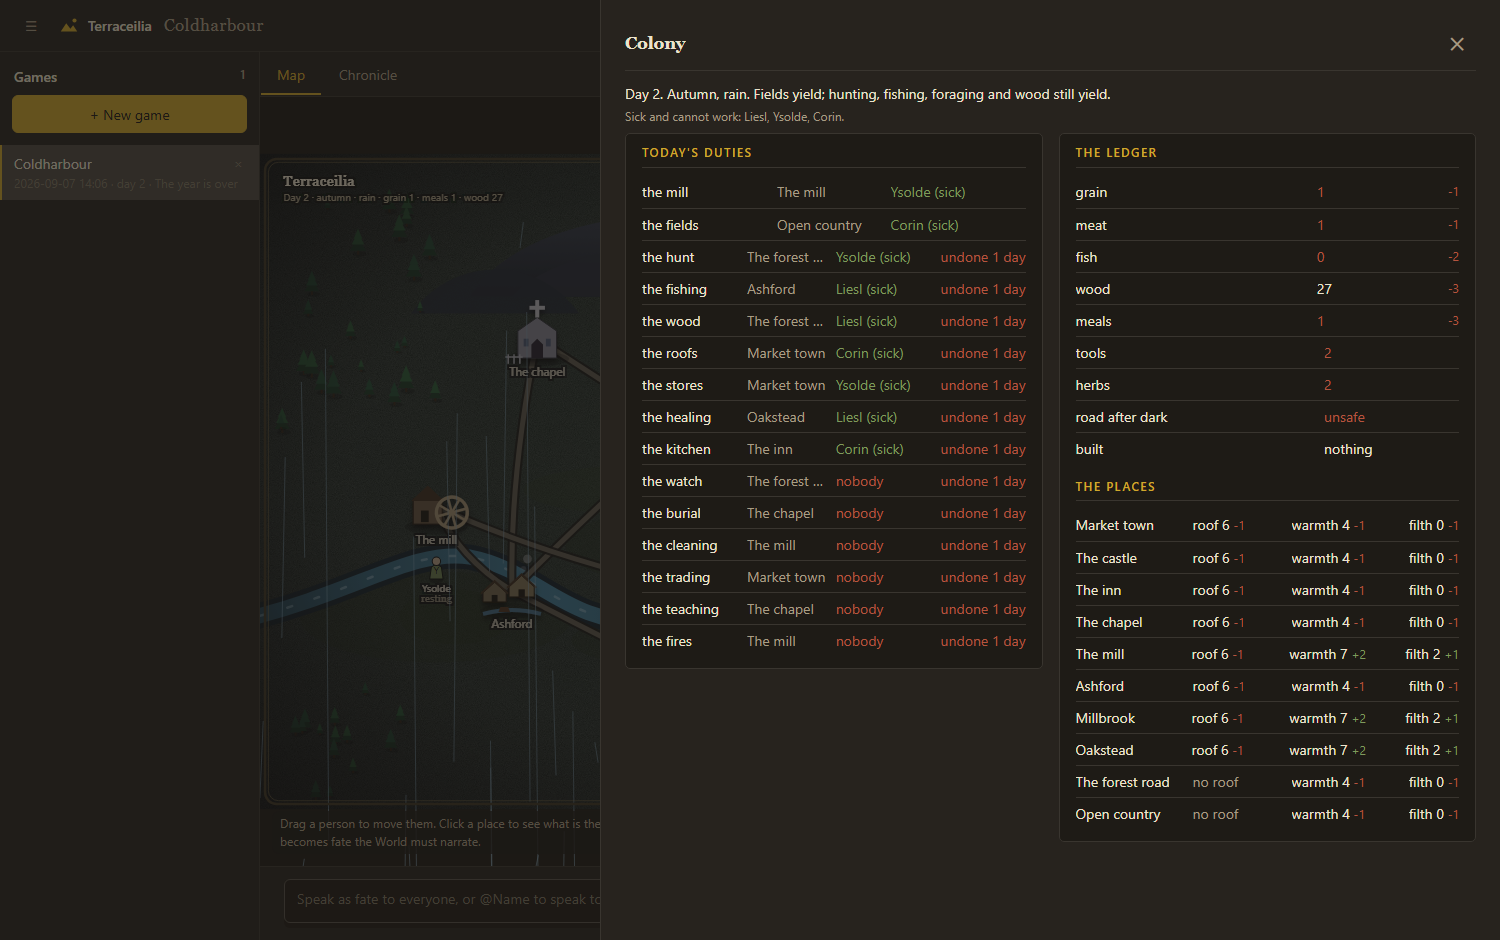
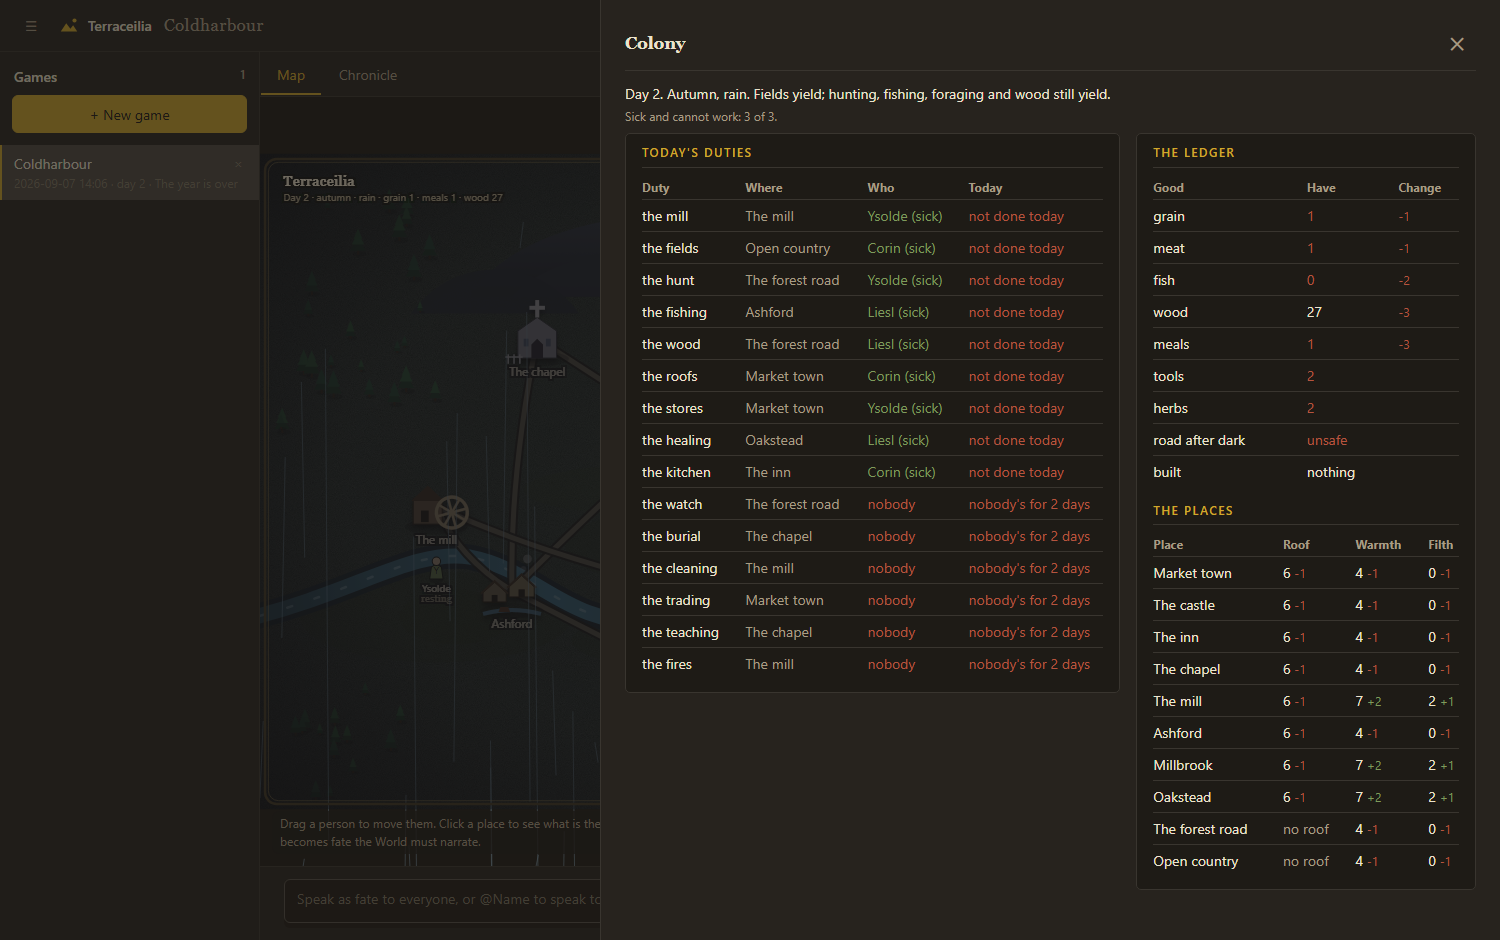
Colony sheet readability: header rows, columns that fit, plain status words, counts with names on hover
The three colony tables are tables now, each with a header row: Duty, Where, Who, Today; Good, Have, Change; Place,
Roof, Warmth, Filth with today's change beside each number. Columns are as wide as their longest value and nothing is
cut short; the cells wrap only on the phone, where the sheet is narrower than the table. Today reads done, not done
today, nobody's for N days, dumped on Sela today, or nothing to do; Who carries the full name with (dumped) after it.
Hungry, freezing and sick show as a count of the living with the names on hover. The header sentence stays on one line
and wraps on the phone.

Claude-Session: https://claude.ai/code/session_011m975X5bZNZjxXmbnbh6Db

diff --git a/frontend/app.js b/frontend/app.js
@@ -114,18 +114,23 @@ function refreshSheet(name,s){if(!s)return;
 let colHtml='';
 function renderColony(s){const R=s.day_report||{};const L=s.ledger||{};const ch=R.change||{};const defs=s.duty_defs||{};const roster=(s.roster||{}).duties||{};const st=s.duty_state||{};
  if(!s.created){$('colHead').innerHTML='<div class="empty">The colony appears here once the World has rolled it.</div>';$('colDuties').innerHTML='';$('colLedger').innerHTML='';$('colPlaces').innerHTML='';$('colMorning').innerHTML='';colHtml='';return}
- const sick=(s.characters||[]).filter(c=>c.alive&&!c.gone&&c.sick).map(c=>c.name);const bodies=Object.entries(s.bodies||{});
+ const living=(s.characters||[]).filter(c=>c.alive&&!c.gone);const sick=living.filter(c=>c.sick).map(c=>c.name);const bodies=Object.entries(s.bodies||{});
+ const count=(label,names)=>names.length?`<span title="${esc(names.join(', '))}">${label}: ${names.length} of ${living.length}.</span> `:'';
  const head=`<p class="colsent">${esc(s.sentence||R.sentence||`Day ${s.day}.`)}</p>
-  <p class="small">${sick.length?`Sick and cannot work: ${sick.map(esc).join(', ')}. `:''}${bodies.length?`Unburied: ${bodies.map(([n,p])=>esc(n)+' at '+esc(p)).join(', ')}. `:''}${Object.keys(s.fires||{}).length?`Burning: ${Object.keys(s.fires).map(esc).join(', ')}. `:''}${(R.hungry||[]).length?`Hungry: ${R.hungry.map(esc).join(', ')}. `:''}${(R.freezing||[]).length?`Freezing: ${R.freezing.map(esc).join(', ')}. `:''}</p>`;
- const duties=Object.entries(defs).map(([k,d])=>{const r=roster[k]||{};const x=st[k]||{};const hs=(s.characters||[]).filter(c=>c.alive&&!c.gone&&(c.duties||[]).includes(k)).map(c=>c.name);
-  const un=!hs.length;const done=x.done_day===s.day;const sickSet=new Set(sick);const who=(hs.length?hs.map(h=>esc(h)+(sickSet.has(h)?' (sick)':'')).join(', '):'')+(r.dumped_on&&!hs.includes(r.dumped_on)?`${hs.length?', ':''}<span class="poor">dumped on ${esc(r.dumped_on)}</span>`:'')||'nobody';
-  return `<div class="crow colduty ${un?'un':''} ${done?'done':''}"><span class="cdn">${esc(d.label)}</span><span class="cdp">${esc(r.place||'')}</span><span class="cdw ${un?'poor':''}">${who}</span><span class="cds ${x.nothing_day===s.day?'quiet':''}">${x.nothing_day===s.day?'nothing to do':done?'':x.undone_days?`undone ${x.undone_days} day${x.undone_days>1?'s':''}`:''}</span></div>`}).join('');
- const chg=v=>v?`<span class="chg ${v>0?'up':'down'}">${v>0?'+':''}${v}</span>`:'<span></span>';
- const ledger=STORES.map(k=>`<div class="crow"><span class="cdn">${k}</span><span class="cdp"></span><span class="cdw ${(L[k]||0)<=(k==='tools'||k==='herbs'?2:4)?'poor':''}">${L[k]??0}</span>${chg(ch[k])}</div>`).join('')
-  +`<div class="crow"><span class="cdn">road after dark</span><span class="cdp"></span><span class="cdw ${L.road_safe?'good':'poor'}">${L.road_safe?'safe':'unsafe'}</span><span></span></div><div class="crow"><span class="cdn">built</span><span class="cdp"></span><span class="cdw">${esc((L.built||[]).join(', ')||'nothing')}</span><span></span></div>`;
- const pc=(R.places||{});const places=Object.entries(s.upkeep||{}).map(([p,u])=>{const d=pc[p]||{};const cell=(k,v,bad)=>`<span class="cdw ${bad?'poor':''}">${k} ${v}${d[k]?` <span class="chg ${d[k]>0?'up':'down'}">${d[k]>0?'+':''}${d[k]}</span>`:''}</span>`;
+  <p class="small">${count('Sick and cannot work',sick)}${bodies.length?`Unburied: ${bodies.map(([n,p])=>esc(n)+' at '+esc(p)).join(', ')}. `:''}${Object.keys(s.fires||{}).length?`Burning: ${Object.keys(s.fires).map(esc).join(', ')}. `:''}${count('Hungry',R.hungry||[])}${count('Freezing',R.freezing||[])}</p>`;
+ const thead=cols=>`<thead><tr>${cols.map(c=>`<th>${c}</th>`).join('')}</tr></thead>`;
+ const duties=`<table class="ctab">${thead(['Duty','Where','Who','Today'])}<tbody>`+Object.entries(defs).map(([k,d])=>{const r=roster[k]||{};const x=st[k]||{};const hs=living.filter(c=>(c.duties||[]).includes(k)).map(c=>c.name);
+  const un=!hs.length;const done=x.done_day===s.day;const sickSet=new Set(sick);const dumped=r.dumped_on&&!hs.includes(r.dumped_on)?r.dumped_on:'';
+  const who=hs.map(h=>esc(h)+(sickSet.has(h)?' (sick)':'')).concat(dumped?[esc(dumped)+' (dumped)']:[]).join(', ')||'nobody';
+  const since=x.unclaimed_day?Math.max(1,s.day-x.unclaimed_day+1):1;
+  const today=x.nothing_day===s.day?['nothing to do','quiet']:done?['done','good']:dumped?[`dumped on ${esc(dumped)} today`,'poor']:un?[`nobody's for ${since} day${since>1?'s':''}`,'poor']:['not done today','poor'];
+  return `<tr class="colduty ${un?'un':''} ${done?'done':''}"><td class="cdn">${esc(d.label)}</td><td class="cdp">${esc(r.place||'')}</td><td class="cdw ${un&&!dumped?'poor':''}">${who}</td><td class="cds ${today[1]}">${today[0]}</td></tr>`}).join('')+'</tbody></table>';
+ const chg=v=>v?`<span class="chg ${v>0?'up':'down'}">${v>0?'+':''}${v}</span>`:'';
+ const ledger=`<table class="ctab">${thead(['Good','Have','Change'])}<tbody>`+STORES.map(k=>`<tr><td class="cdn">${k}</td><td class="cdw ${(L[k]||0)<=(k==='tools'||k==='herbs'?2:4)?'poor':''}">${L[k]??0}</td><td>${chg(ch[k])}</td></tr>`).join('')
+  +`<tr><td class="cdn">road after dark</td><td class="cdw ${L.road_safe?'good':'poor'}">${L.road_safe?'safe':'unsafe'}</td><td></td></tr><tr><td class="cdn">built</td><td class="cdw">${esc((L.built||[]).join(', ')||'nothing')}</td><td></td></tr></tbody></table>`;
+ const pc=(R.places||{});const places=`<table class="ctab">${thead(['Place','Roof','Warmth','Filth'])}<tbody>`+Object.entries(s.upkeep||{}).map(([p,u])=>{const d=pc[p]||{};const cell=(k,v,bad)=>`<td class="cdw ${bad?'poor':''}">${v} ${chg(d[k])}</td>`;
   const roofed=!['forest','fields','water','road','cave','ruin'].includes(((s.map||{})[p]||{}).kind);
-  return `<div class="crow colplace"><span class="cdn">${esc(p)}</span>${roofed?cell('roof',u.roof,u.roof<4):'<span class="cdp">no roof</span>'}${cell('warmth',u.warmth,u.warmth<=2)}${cell('filth',u.filth,u.filth>=6)}</div>`}).join('');
+  return `<tr class="colplace"><td class="cdn">${esc(p)}</td>${roofed?cell('roof',u.roof,u.roof<4):'<td class="cdp">no roof</td>'}${cell('warmth',u.warmth,u.warmth<=2)}${cell('filth',u.filth,u.filth>=6)}</tr>`}).join('')+'</tbody></table>';
  const m=(s.transcript||[]).slice().reverse().find(e=>e.kind==='morning'&&e.day===s.day);
  const morning=m?`<div class="card2"><div class="ch">This morning</div><div class="colmorn">${rich(m.text)}</div></div>`:'';
  const html=head+'|'+duties+'|'+ledger+'|'+places+'|'+morning;if(html===colHtml)return;colHtml=html;

diff --git a/frontend/style.css b/frontend/style.css
@@ -176,7 +176,7 @@ table.st{border-collapse:collapse;font-size:var(--fs-b);margin-top:var(--u)}tabl
 .card2{background:var(--sunk);border:1px solid var(--line);border-radius:5px;padding:calc(var(--u) * 1.5) calc(var(--u) * 2);margin-bottom:var(--u)}.card2 p{margin:0 0 var(--u)}.card2 p:last-child{margin-bottom:0}
 .small{font-size:var(--fs-s);color:var(--muted);line-height:1.45;margin:0 0 var(--u)}
 .ch{font:400 var(--fs-s)/1 Inter,system-ui,sans-serif;letter-spacing:1.4px;text-transform:uppercase;color:var(--accent);padding-bottom:var(--u);margin-bottom:var(--u);border-bottom:1px solid var(--line)}
-.hgrid{display:grid;grid-template-columns:1fr 1fr;gap:calc(var(--u) * 2);align-items:start}
+.hgrid{display:flex;flex-wrap:wrap;gap:calc(var(--u) * 2);align-items:flex-start}.hgrid .card2{flex:1 1 auto;min-width:0}
 .foot{font-size:var(--fs-s);color:var(--faint);line-height:1.5;margin-top:var(--u)}
 .srow{display:flex;align-items:center;justify-content:space-between;gap:var(--u);padding:calc(var(--u) / 2) 0;border-top:1px solid var(--line)}
 .srow:first-child{border-top:0}.srow .lbl{color:var(--muted);white-space:nowrap}
@@ -225,9 +225,10 @@ table.st{border-collapse:collapse;font-size:var(--fs-b);margin-top:var(--u)}tabl
 .logrow.system .lm,.logrow.system{color:var(--muted)}
 .colday{display:flex;gap:calc(var(--u) * 1.5);align-items:baseline;flex-wrap:wrap;font-size:var(--fs-b)}.colday b{font:400 var(--fs-h) Georgia,serif;color:var(--ink)}.colseason{color:var(--accent)}.colweather{color:var(--muted)}
 /* one row shape for duties, the ledger and the places: four columns, one line, one fixed height */
-.crow{display:grid;grid-template-columns:1.2fr 1fr 1.2fr auto;gap:var(--u);align-items:center;height:calc(var(--u) * 4);box-sizing:border-box;border-top:1px solid var(--line);font-size:var(--fs-b)}
-.crow:first-child{border-top:0}.crow>span{white-space:nowrap;overflow:hidden;text-overflow:ellipsis;min-width:0}
-.crow .cdn{color:var(--ink)}.crow .cdp{color:var(--muted)}.crow .cds{color:var(--rust);text-align:right}.crow .cds.quiet{color:var(--muted)}
+/* the colony tables: a header row, columns as wide as their longest value, one line per row of one height; nothing is cut short */
+.ctab{border-collapse:collapse;font-size:var(--fs-b);width:100%}.ctab th{color:var(--muted);font-size:var(--fs-s);text-align:left;padding:0 calc(var(--u) * 2) 0 0;height:calc(var(--u) * 3);white-space:nowrap}
+.ctab td{height:calc(var(--u) * 4);padding:0 calc(var(--u) * 2) 0 0;border-top:1px solid var(--line);white-space:nowrap;vertical-align:middle}.ctab th:last-child,.ctab td:last-child{padding-right:0}
+.ctab .cdn{color:var(--ink)}.ctab .cdp{color:var(--muted)}.ctab .cds.poor{color:var(--rust)}.ctab .cds.good{color:var(--moss)}.ctab .cds.quiet{color:var(--muted)}
 .colduty .cdw{color:var(--moss)}.colduty .cdw.poor,.colduty.un .cdw,.colduty .cdw .poor{color:var(--rust);font-weight:400}
 .chg{font-size:var(--fs-s);color:var(--faint)}.chg.up{color:var(--moss)}.chg.down{color:var(--rust)}
 .colmorn{font-size:var(--fs-b);line-height:1.55;color:var(--ink)}.colmorn p{margin:0 0 .5em}
@@ -266,12 +267,12 @@ table.st{border-collapse:collapse;font-size:var(--fs-b);margin-top:var(--u)}tabl
 .seg button.on{background:color-mix(in srgb,var(--ink) 45%,var(--bg));border-color:transparent}
 .tie{cursor:pointer}.tie.sel{outline:1px solid var(--accent);outline-offset:calc(var(--u) / 4);border-radius:3px}
 .tie .seg button.on{background:var(--moss);border-color:var(--moss)}.tie .seg button.on.neg{background:var(--rust);border-color:var(--rust)}
-.colsent{font-size:var(--fs-b);color:var(--ink);margin:0 0 calc(var(--u) / 2)}
+.colsent{font-size:var(--fs-b);color:var(--ink);margin:0 0 calc(var(--u) / 2);white-space:nowrap}
 .sit{display:grid;grid-template-columns:auto 1fr;grid-template-areas:"n text" "n meta" "n act";gap:calc(var(--u) / 4) var(--u);padding:var(--u) 0;border-top:1px solid var(--line)}
 .sit:first-of-type{border-top:0}.sit .sitn{grid-area:n;color:var(--muted)}.sit .sitt{grid-area:text;color:var(--ink)}.sit .small{grid-area:meta;margin:0}.sit .row{grid-area:act}
 .sit.resolved .sitt{color:var(--muted)}.sit .rnote{height:30px;font-size:var(--fs-b)}
 .srow.area .val.col span{text-align:right}
-@media (max-width:820px){.srow{flex-wrap:wrap}.srow .val{white-space:normal;text-align:left;justify-content:flex-start}.form2{grid-template-columns:1fr}.needbars{grid-template-columns:1fr 1fr}.cond{grid-template-columns:1fr}.srow.area{flex-direction:column;align-items:flex-start}.srow.area .val.col{align-items:flex-start}.srow.area .val.col span{text-align:left}}
+@media (max-width:820px){.colsent{white-space:normal}.ctab td,.ctab th{white-space:normal;height:auto;padding-top:calc(var(--u) / 2);padding-bottom:calc(var(--u) / 2)}.srow{flex-wrap:wrap}.srow .val{white-space:normal;text-align:left;justify-content:flex-start}.form2{grid-template-columns:1fr}.needbars{grid-template-columns:1fr 1fr}.cond{grid-template-columns:1fr}.srow.area{flex-direction:column;align-items:flex-start}.srow.area .val.col{align-items:flex-start}.srow.area .val.col span{text-align:left}}
 
 /* ---------- one weight for body text: bold only for names in the strip and section headings; italic only for an earned title ---------- */
 b,strong{font-weight:400}.chip .cn,.ch,h1,.sheetwrap .panel h1,.logday,.place,.railhdr,header .brand{font-weight:600}

diff --git a/tests/test_ui_pass.py b/tests/test_ui_pass.py
@@ -107,16 +107,21 @@ class Sheets(unittest.TestCase):
         self.assertIn("white-space:nowrap", CSS[CSS.index("#peoHead{"):CSS.index("}", CSS.index("#peoHead{"))])
         bio = JS[JS.index("function paneBio"):JS.index("// ---- Body")]; self.assertIn('id="b_prov"', bio); self.assertIn('id="b_model"', bio)
 
-    def test_colony_rows_are_one_line_with_four_columns(self) -> None:
+    def test_colony_tables_have_headers_plain_status_and_no_truncation(self) -> None:
         col = JS[JS.index("function renderColony"):JS.index("document.querySelectorAll('.sheetclose')")]
-        self.assertIn('class="crow colduty', col); self.assertIn('class="crow colplace', col); self.assertEqual(col.count('<div class="crow">'), 3, "the ledger rows share the row shape")
-        duty = col[col.index('class="crow colduty'):col.index("</div>`", col.index('class="crow colduty'))]
-        self.assertEqual([m for m in re.findall(r'class="(cdn|cdp|cdw|cds)', duty)], ["cdn", "cdp", "cdw", "cds"], "duty name, place, holder, status")
-        self.assertIn("done?'':x.undone_days?`undone ${x.undone_days} day", duty, "status is blank when done"); self.assertIn("'nothing to do'", duty, "a duty with nothing to do today says so")
-        row = CSS[CSS.index(".crow{"):CSS.index("}", CSS.index(".crow{"))]
-        self.assertIn("display:grid", row); self.assertIn("height:calc(var(--u) * 4)", row); self.assertIn("grid-template-columns:1.2fr 1fr 1.2fr auto", row)
-        self.assertIn(".crow>span{white-space:nowrap;overflow:hidden;text-overflow:ellipsis", CSS); self.assertIn(".crow .cdp{color:var(--muted)}", CSS); self.assertIn(".crow .cds{color:var(--rust)", CSS)
-        self.assertNotIn(".colplace{", CSS); self.assertNotIn(".colduty{", CSS)
+        self.assertIn("thead(['Duty','Where','Who','Today'])", col); self.assertIn("thead(['Good','Have','Change'])", col); self.assertIn("thead(['Place','Roof','Warmth','Filth'])", col)
+        self.assertEqual(col.count('<table class="ctab">'), 3)
+        for word in ("'done','good'", "['not done today','poor']", "`nobody's for ${since} day${since>1?'s':''}`,'poor'", "`dumped on ${esc(dumped)} today`,'poor'", "'nothing to do','quiet'"): self.assertIn(word, col)
+        self.assertIn("' (dumped)'", col, "the Who column carries the full name and (dumped) after it"); self.assertNotIn("undone ${", col); self.assertNotIn("dumped on ${esc(r.dumped_on)}</span>", col)
+        self.assertIn("${label}: ${names.length} of ${living.length}.", col, "hungry, freezing and sick are counts"); self.assertIn("title=\"${esc(names.join(', '))}\"", col, "with the names on hover")
+        self.assertNotIn("Hungry: ${R.hungry.map(esc).join(', ')}", col)
+        self.assertIn("${v} ${chg(d[k])}", col, "each place number carries today's change beside it")
+        tab = CSS[CSS.index(".ctab{"):CSS.index("@media (max-width:820px)", CSS.index(".ctab{"))] if CSS.index("@media (max-width:820px)", CSS.index(".ctab{")) > 0 else CSS[CSS.index(".ctab{"):]
+        self.assertNotIn("ellipsis", tab); self.assertNotIn("overflow:hidden", tab); self.assertIn("white-space:nowrap", tab); self.assertIn("height:calc(var(--u) * 4)", tab)
+        self.assertNotIn(".crow", CSS)
+        self.assertIn(".hgrid{display:flex;flex-wrap:wrap", CSS, "the cards sit beside each other while they fit and wrap when the sheet is narrower")
+        phone = CSS[CSS.rindex("@media (max-width:820px)"):]; self.assertIn(".colsent{white-space:normal}", phone); self.assertIn(".ctab td,.ctab th{white-space:normal", phone)
+        self.assertIn(".colsent{font-size:var(--fs-b);color:var(--ink);margin:0 0 calc(var(--u) / 2);white-space:nowrap}", CSS)
 
     def test_the_colony_header_is_the_sentence(self) -> None:
         self.assertIn('class="colsent"', JS); self.assertNotIn("nothing grows", JS); self.assertNotIn('class="colseason"', JS)
